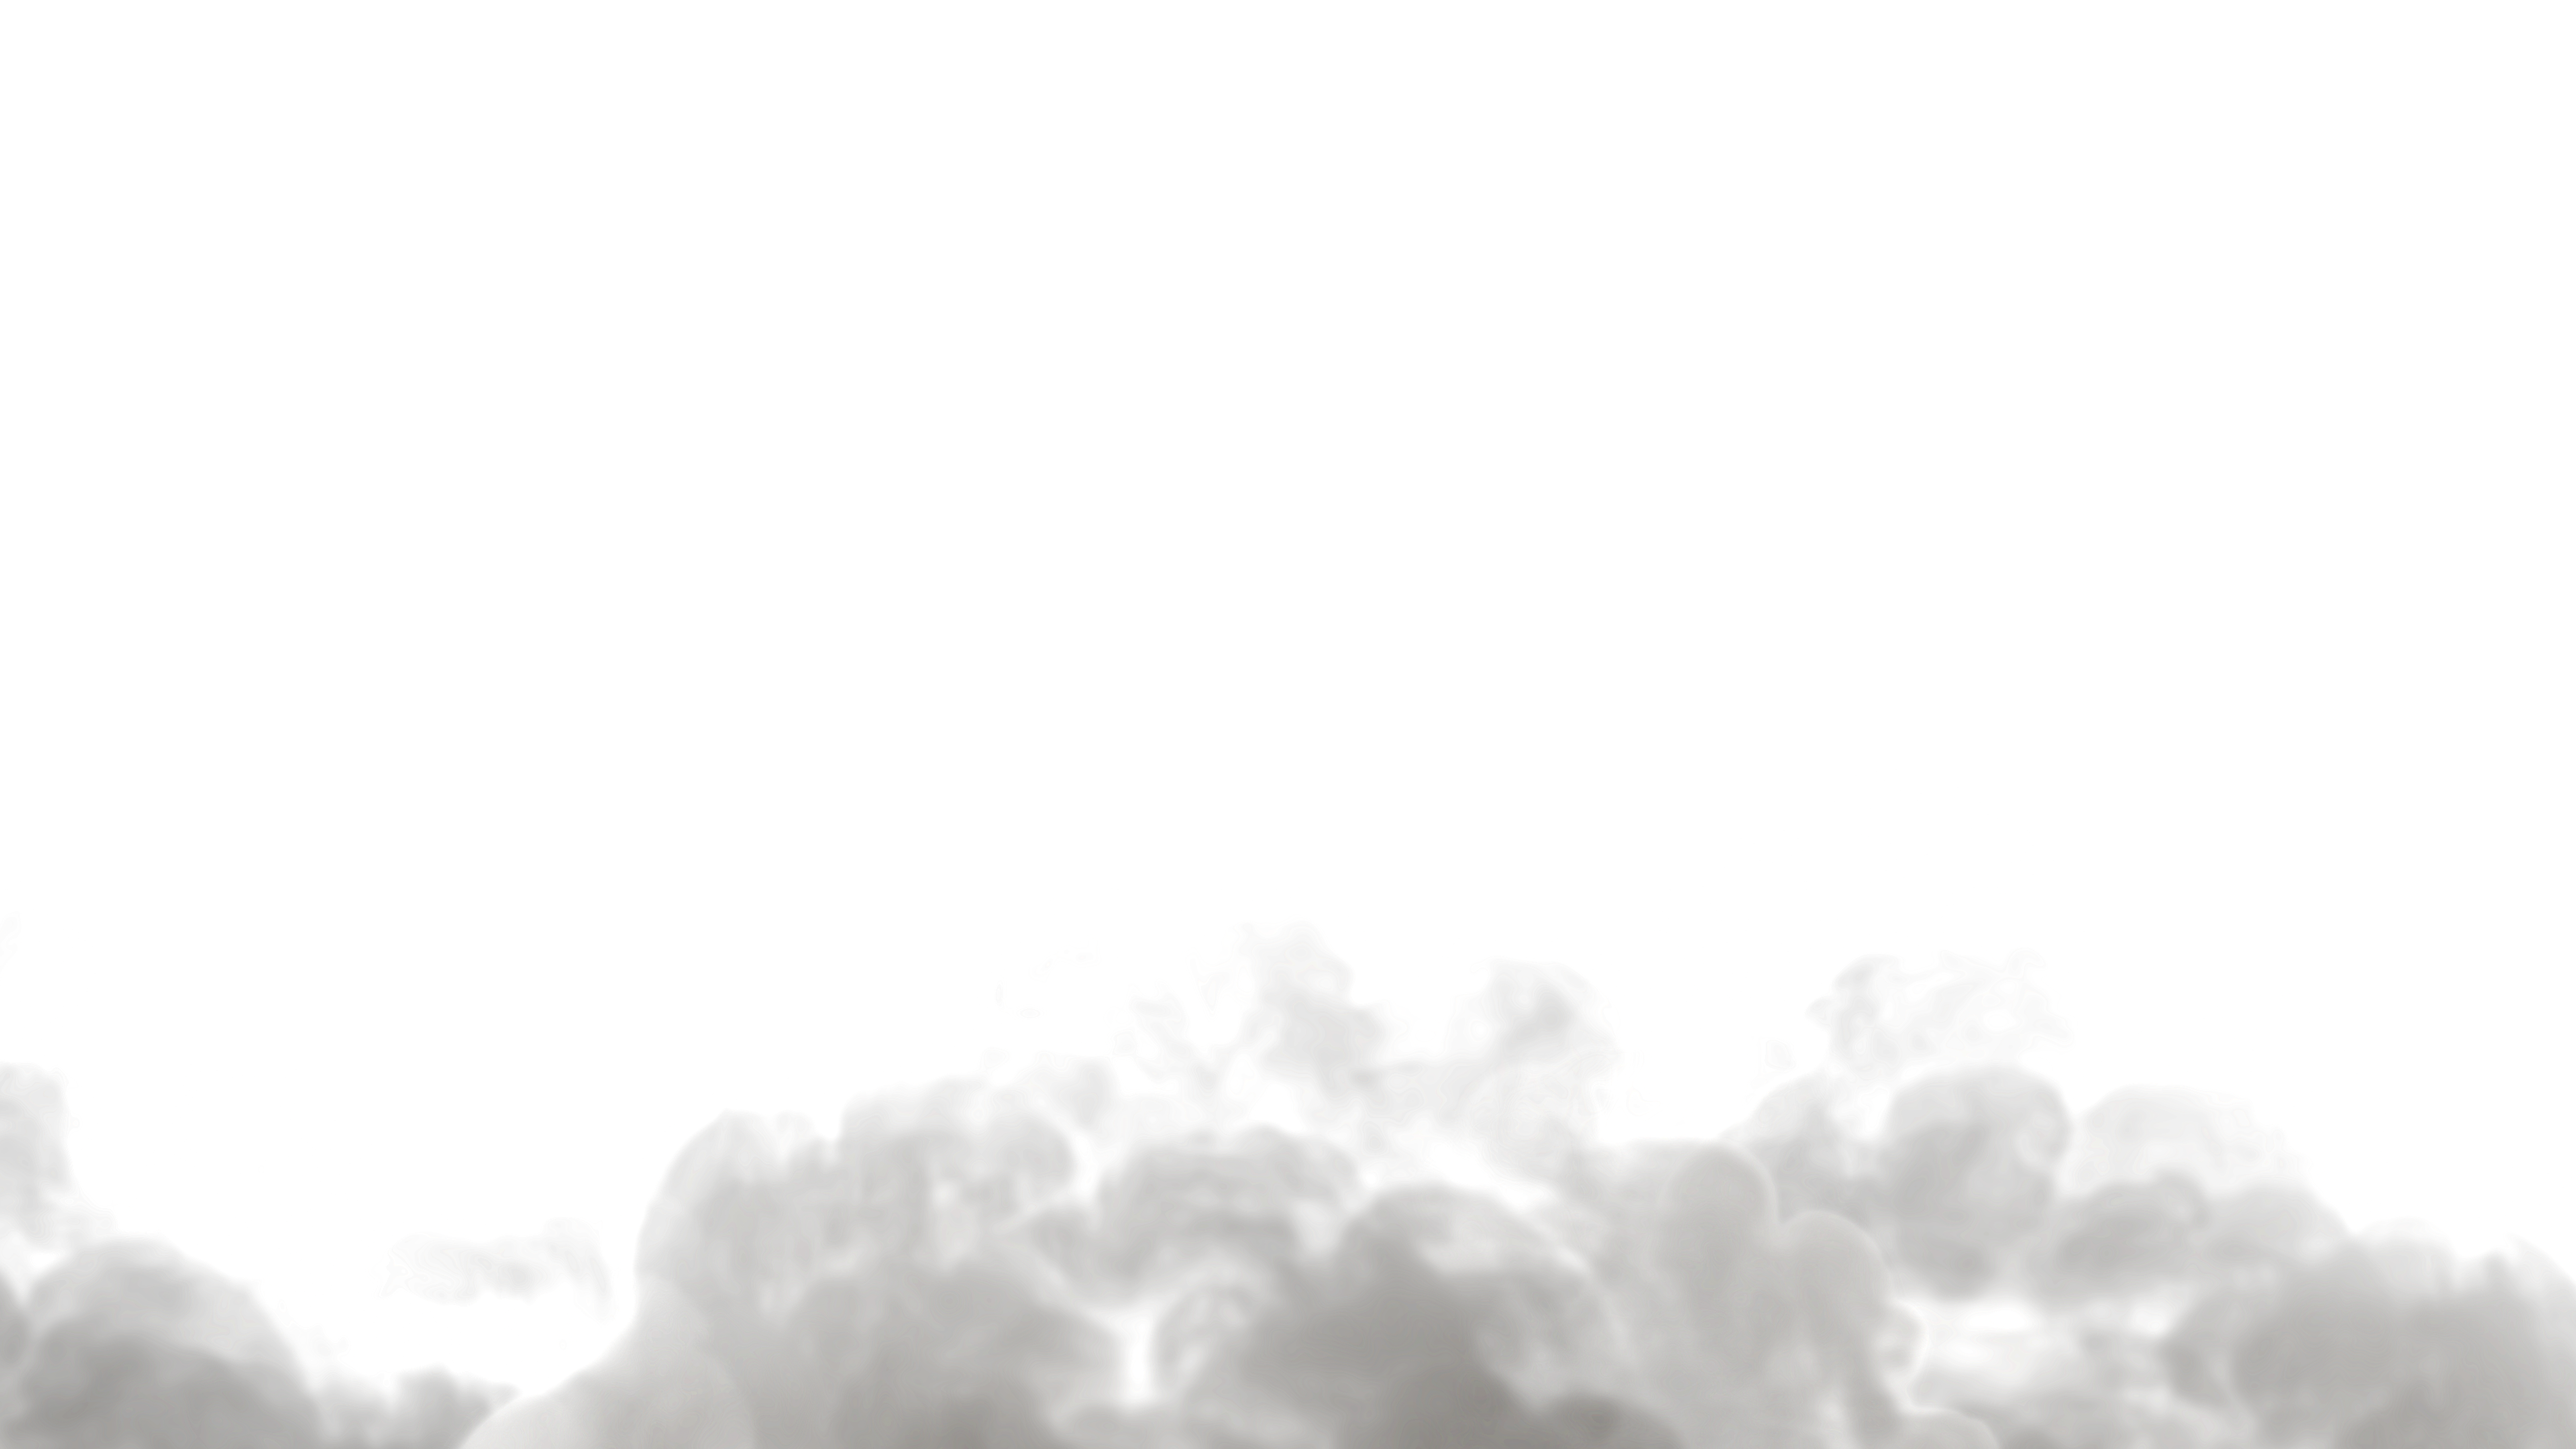
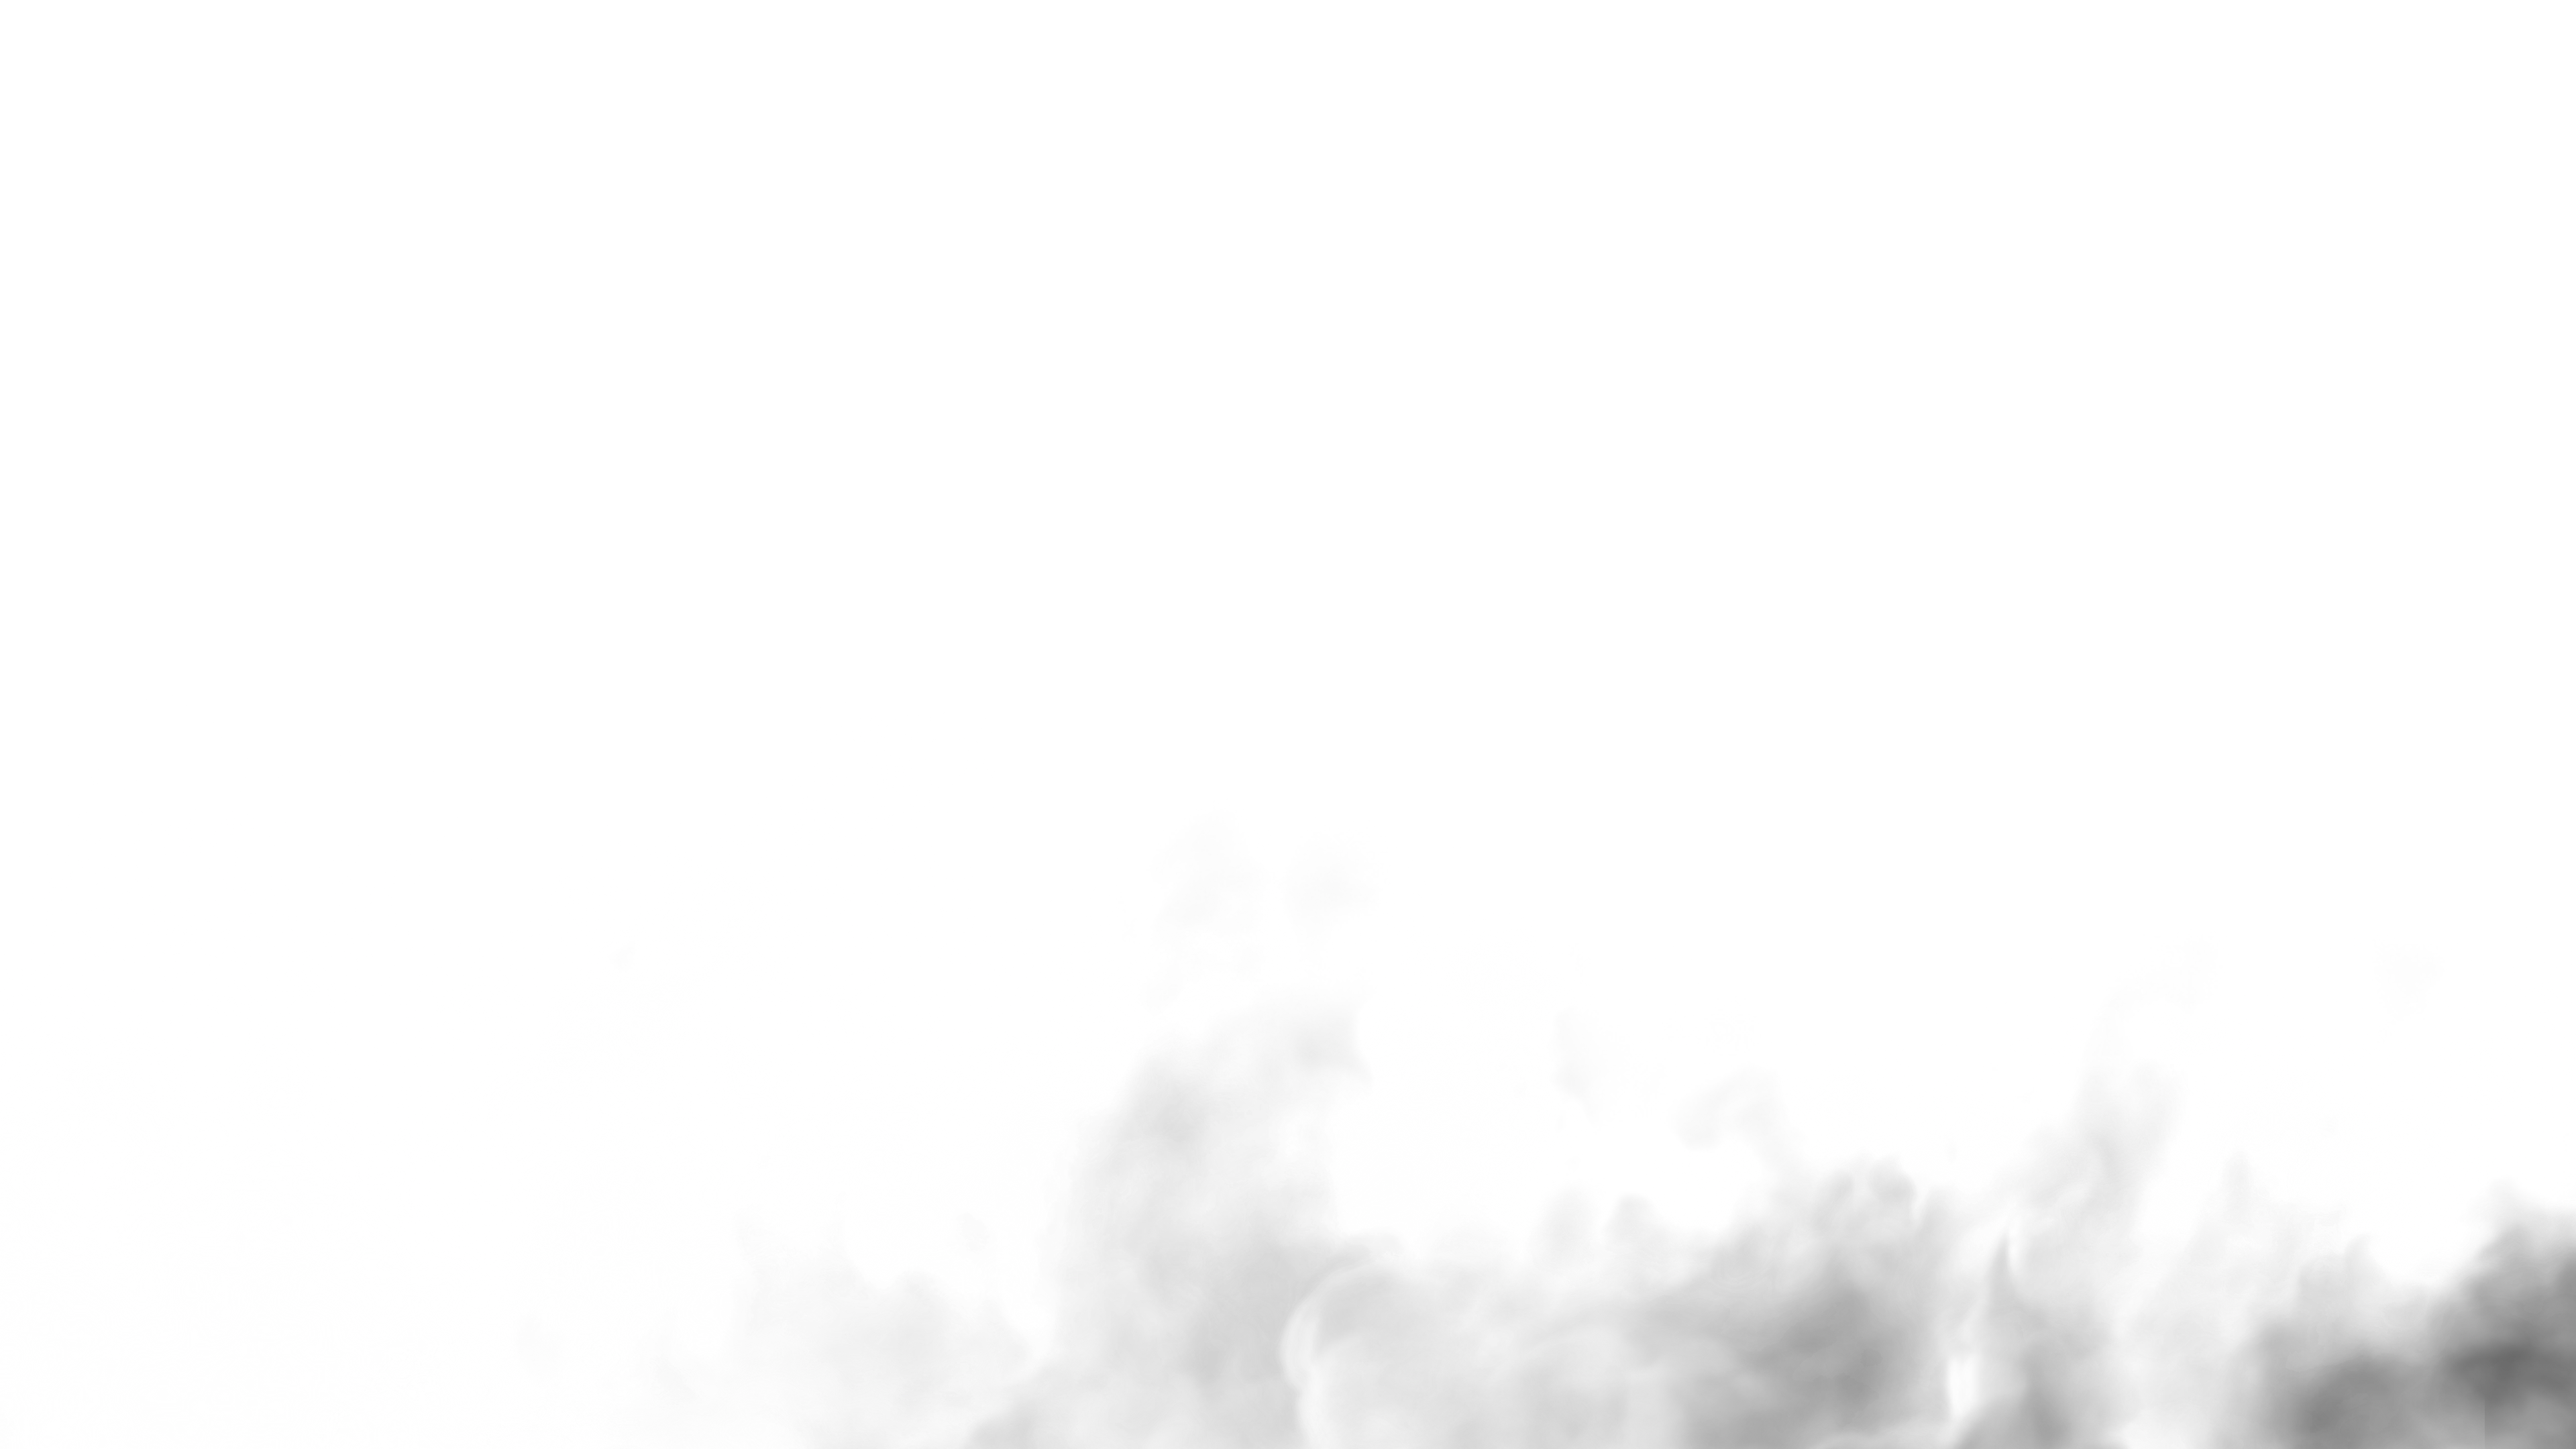
fog img changed

Changed region(s): [[0.0, 0.7444, 1.0, 1.0], [0.5938, 0.6824, 0.625, 0.7134], [0.5625, 0.7134, 0.5938, 0.7444]]

diff --git a/src/components/HeroSection.tsx b/src/components/HeroSection.tsx
@@ -21,7 +21,7 @@ const HeroSection = () => {
   });
 
   // Parallax transforms
-  const fogY = useTransform(smoothScroll, [0, 0.5], ["0%", "60%"]);
+  const fogY = useTransform(smoothScroll, [0, 1], ["0%", "50%"]);
   const stonesY = useTransform(smoothScroll, [0, 2], ["0%", "40%"]);
   const productsY = useTransform(smoothScroll, [0, 0.5], ["0%", "60%"]);
 
@@ -90,9 +90,9 @@ const HeroSection = () => {
 
       <motion.div
         className="absolute inset-0 z-20 pointer-events-none"
-        initial={{ y: "60%" }}
+        initial={{ y: "50%" }}
         animate={{ y: "0%" }}
-        transition={{ duration: 1.2, ease: "easeOut" }}
+        transition={{ duration: 1.5, ease: "easeOut" }}
       >
         <motion.div
           className="h-full w-full bg-bottom bg-cover"
